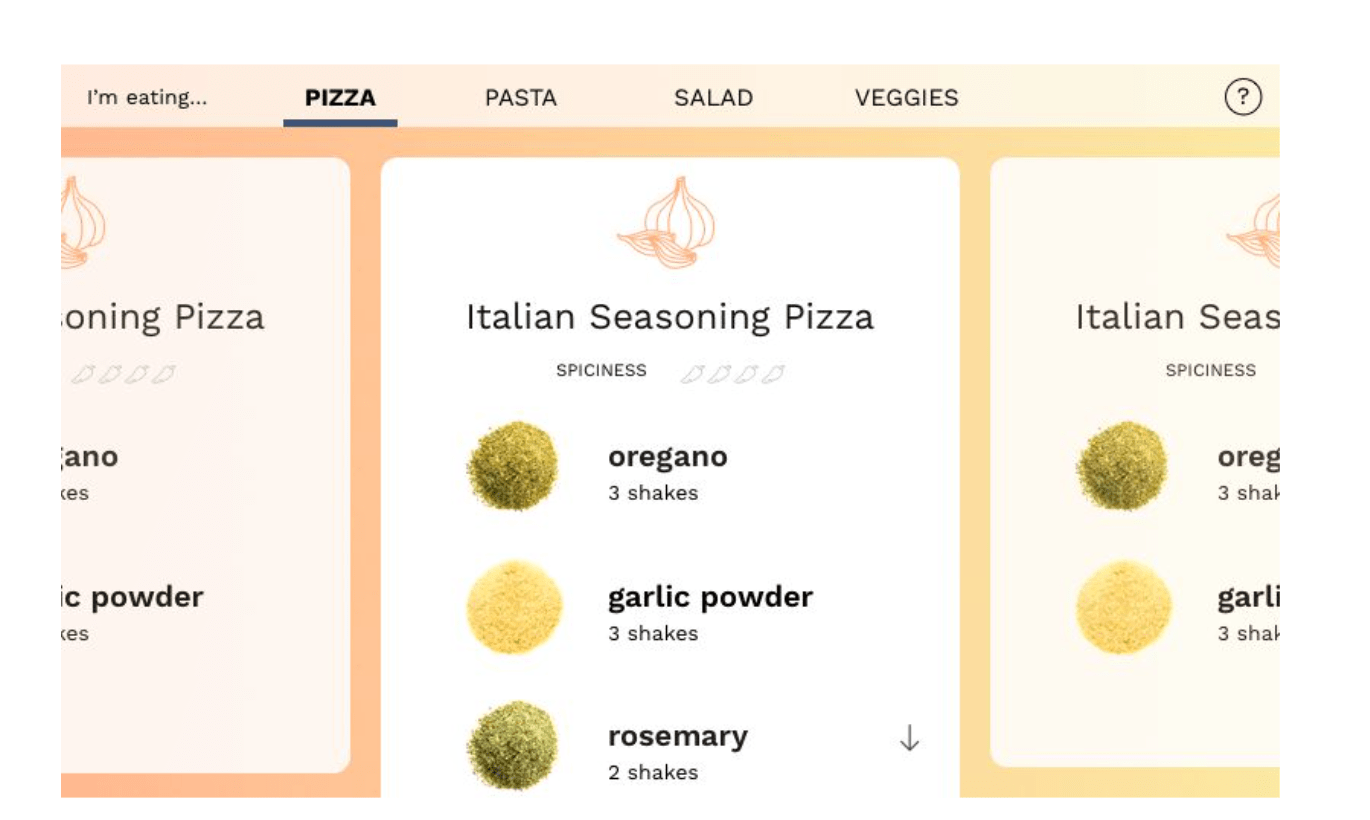
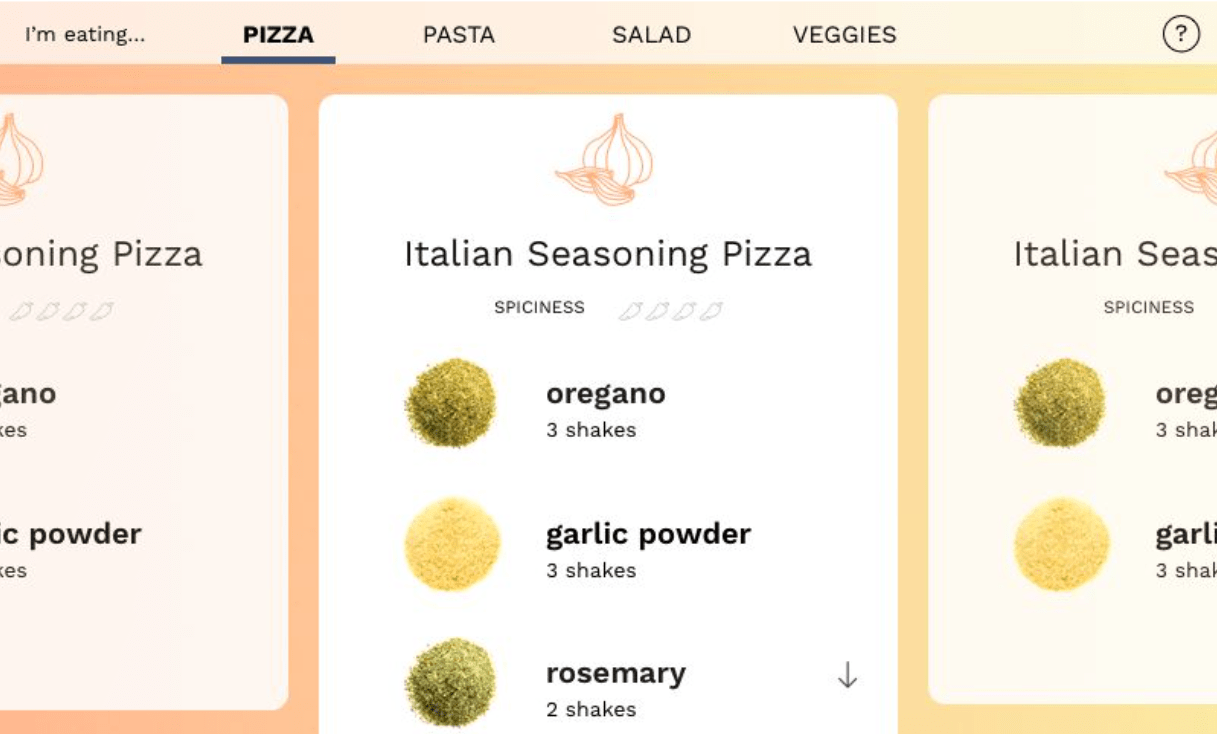
work

diff --git a/index.html b/index.html
@@ -42,14 +42,14 @@
 		<section>
 			<h2>Initial Design and Prototyping</h2>
 			<figure>
-        <div class='multi' style='padding-bottom: 69.3311582382%'><ul><li style='width: 95.0%'><img src='images/sketch.png' /></li></ul></div>
+        <div class='multi' style='padding-bottom: 69.3311582382%'><ul><li style='flex-grow: 1.0'><img src='images/sketch.png' /></li></ul></div>
 			</figure>
 			<p>Low fidelity sketches and prototyping were used to conceptualize possible solutions and to contextualize the problem in a tangible form. We brainstormed and prototyped several approaches — from spice pop-up stores, to vending machines, to “spice cream” machines that let people explore the taste of spices on ice cream. We spent a lot of time thinking about <strong>the best setting in which to expose college students to spices.</strong></p>
 		</section>
 		<section>
 			<h2>User Research, Part 2</h2>
 			<figure>
-        <div class='multi' style='padding-bottom: 99.7703788749%'><ul><li style='width: 95.0%'><img src='images/empathymap.png' /></li></ul></div>
+        <div class='multi' style='padding-bottom: 99.7703788749%'><ul><li style='flex-grow: 1.0'><img src='images/empathymap.png' /></li></ul></div>
 				<figcaption>Figure 1: Empathy maps constructed from individual interviews</figcaption>
 			</figure>
 			<p>
@@ -98,7 +98,7 @@
 				We also knew that the user would have to be able to choose different foods to see recipes for, as the device may recognize multiple on one plate or be unsure of certain foods. Given the small size of the screen (800 x 480 pixels), having a horizontal navigation bar seemed more practical as it takes up less space than a vertical sidebar, and having it placed on top felt more logical as the choice of food would come before the choice of recipe.
 			</p>
 			<figure>
-        <div class='multi' style='padding-bottom: 17.2573265301%'><ul><li style='width: 27.7757383614%'><img src='images/mock1.png' /></li><li style='width: 33.5873519106%'><img src='images/mock2.png' /></li><li style='width: 33.636909728%'><img src='images/mock3.png' /></li></ul></div>
+<div class='multi' style='padding-bottom: 17.2573265301%'><ul><li style='flex-grow: 0.292376193278'><img src='images/mock1.png' /></li><li style='flex-grow: 0.353551072743'><img src='images/mock2.png' /></li><li style='flex-grow: 0.354072733979'><img src='images/mock3.png' /></li></ul></div>
 				<figcaption>
 					Figure 2: Three mockups, including an "input-directed" one (top), a "scrollable" one (left), and a "cards" one (right)
 				</figcaption>
@@ -107,7 +107,7 @@
 				Low resolution mockups were created in Adobe Illustrator after some initial sketching. The wireframes were made lightly interactive in Keynote (each mockup included a few different pages) and were then tested by a few students and one non-student. Participants understood how to use each interface, but preferred those that allowed for freer exploration.
 			</p>
 			<figure>
-        <div class='multi' style='padding-bottom: 25.3056234719%'><ul><li style='width: 47.5%'><img src='images/smallercards1.png' /></li><li style='width: 47.5%'><img src='images/smallercards2.png' /></li></ul></div>
+        <div class='multi' style='padding-bottom: 25.3056234719%'><ul><li style='flex-grow: 0.5'><img src='images/smallercards1.png' /></li><li style='flex-grow: 0.5'><img src='images/smallercards2.png' /></li></ul></div>
 				<figcaption>
 					Figure 3: Experimenting with smaller cards
 				</figcaption>
@@ -116,7 +116,7 @@
 				We also felt that the "cards" approach encouraged focus on one recipe at a time. The previous iteration didn't feel quite as free as the "scrollable" interface, so we experimented with smaller cards, which made the recipes feel more easily explorable--with smaller cards, the surroundings recipes could be "previewed" before being focus on. What's more, the cards are very easy and quick to swipe between, providing an experience where all the possible recipes are laid out and ready to be accessed without any friction in looking between them.
 			</p>
 			<figure>
-        <div class='multi' style='padding-bottom: 30.1535974131%'><ul><li style='width: 47.3080032336%'><img src='images/highres1.png' /></li><li style='width: 47.6919967664%'><img src='images/highres2.png' /></li></ul></div>
+        <div class='multi' style='padding-bottom: 30.1535974131%'><ul><li style='flex-grow: 0.497978981407'><img src='images/highres1.png' /></li><li style='flex-grow: 0.502021018593'><img src='images/highres2.png' /></li></ul></div>
 				<figcaption>
 					Figure 4: Exploring design elements in the high resolutions mockups
 				</figcaption>
@@ -131,18 +131,18 @@
 				In the final mockup, we gave the spices a good amount of space and color to bring focus to them. Because they are given this focus and are associated with a visual (and, eventually, a taste), we hypothesized that students who would use this regularly would start to recognize spices that they hadn't known before. In our interviews we found that the participants, when learning to cook and when buying new spices, would tend to lean towards spices that they recognized, especially when they could associate the them with specific dishes. With zest, the user "makes" those dishes themselves, and hopefully will want to use the same spices when they start to cook on their own.
 			</p>
 			<figure>
-				<img src='images/finalmock.png'/>
+        <div class='multi' style='padding-bottom: 60.312243221%'><ul><li style='flex-grow: 1.0'><img src='images/finalmock.png' /></li></ul></div>
 				<figcaption>Figure 5: The main page of the final mockup</figcaption>
 			</figure>
 			<figure>
-				<img src='images/finalfrontend.png'/>
+<div class='multi' style='padding-bottom: 59.6724667349%'><ul><li style='flex-grow: 1.0'><img src='images/finalfrontend.png' /></li></ul></div>
 				<figcaption>Figure 6: The final frontend product shown on the website, here displaying recipes for chicken</figcaption>
 			</figure>
 			<p>
 				The final frontend product was coded in HTML, CSS, and jQuery, and exists as a web page on our Google App Engine website (though it is a web page, it is only meant to be accessed from the built device). A carousel slider was used to control the cards, which can be swiped between on the touchscreen of the Pi. When a card is swiped to, it takes center stage on the screen, giving it focus. The surrounding recipes are at a lower opacity to add to that focus. The icon above each recipe is based on which spice is the biggest player in it (i.e. which spice has the most shakes)--each spice is associated with a certain icon, though some share the same one (for instance, chipotle, chili, and cayenne each shared the spicy pepper icon).
 			</p>
 			<figure>
-				<img src='images/idlestate.png'/>
+<div class='multi' style='padding-bottom: 59.2948717949%'><ul><li style='flex-grow: 1.0'><img src='images/idlestate.png' /></li></ul></div>
 				<figcaption>Figure 7: The idle state of the device when no food has been placed underneath. It returns to this state before a plate has been placed and after it has been removed</figcaption>
 			</figure>
 			<p>
@@ -167,8 +167,8 @@
 				After this general configuration was established, we looked at incorporating key hardware including a; raspberry pi 3, raspberry pi camera, 7” LCD touchscreen and LED’s. This also included cabling, wiring and fasteners and power supply. Digital models were then generated to establish the visual language needed to achieve the <strong>integrated</strong> and <strong>seamless</strong> experience as well as accounting for the rough volumes of the listed hardware.
 			</p>
 			<figure>
-        <div class='multi' style='padding-bottom: 23.1116715723%'><ul><li style='width: 30.1486581406%'><img src='images/proto1.png' /></li><li style='width: 31.9894338425%'><img src='images/proto2.png' /></li><li style='width: 32.8619080169%'><img src='images/proto3.png' /></li></ul></div>
-        <div class='multi' style='padding-bottom: 42.4330232205%'><ul><li style='width: 64.3660268621%'><img src='images/proto4.png' /></li><li style='width: 30.6339731379%'><img src='images/proto5.png' /></li></ul></div>
+        <div class='multi' style='padding-bottom: 23.1116715723%'><ul><li style='flex-grow: 0.317354296217'><img src='images/proto1.png' /></li><li style='flex-grow: 0.336730882552'><img src='images/proto2.png' /></li><li style='flex-grow: 0.345914821231'><img src='images/proto3.png' /></li></ul></div>
+        <div class='multi second' style='padding-bottom: 42.4330232205%'><ul><li style='flex-grow: 0.677537124864'><img src='images/proto4.png' /></li><li style='flex-grow: 0.322462875136'><img src='images/proto5.png' /></li></ul></div>
 			</figure>
 			<p>
 				In tandem with CAD modelling, low fidelity prototypes were created to gather ergonomic data, including heights and angles of various elements such as the screen and base. In addition, the precise camera angle for optimal image recognition was also determined through this adjustable low-fidelity mock-up.
@@ -176,8 +176,10 @@
 			<p>
 				With all the aforementioned factors accounted for, a Solidworks model was created which included accurate models of the LCD screen, Pi board and Pi Camera to ensure proper fit. A quick model of the final form was made through 3D printing and laser cutting. The jars were also set to the side to determine the scale of the rack. At this point we began to design the rack assembly. This was fairly straightforward as it translated the design language of the main console into something that had to hold 3 LED’s in a ring around each of the 15 available slots.
 			<figure>
-        <div class='multi' style='padding-bottom: 25.3144453443%'><ul><li style='width: 23.7850309381%'><img src='images/render1.png' /></li><li style='width: 25.0871906645%'><img src='images/render2.png' /></li><li style='width: 21.5436477565%'><img src='images/render3.png' /></li><li style='width: 24.5841306409%'><img src='images/render4.png' /></li></ul></div>
-        <div class='multi' style='padding-bottom: 37.4881195934%'><ul><li style='width: 47.6239589542%'><img src='images/cardboard1.png' /></li><li style='width: 47.3760410458%'><img src='images/cardboard2.png' /></li></ul></div>
+<div class='multi' style='padding-bottom: 32.7387929601%'><ul><li style='flex-grow: 0.341525135652'><img src='images/render2.png' /></li><li style='flex-grow: 0.323798149672'><img src='images/render1.png' /></li><li style='flex-grow: 0.334676714676'><img src='images/render4.png' /></li></ul></div>
+        
+        <div class='multi' style='padding-bottom: 37.4881195934%'><ul><li style='flex-grow: 0.501304831097'><img src='images/cardboard1.png' /></li><li style='flex-grow: 0.498695168903'><img src='images/cardboard2.png' /></li></ul></div>
+        
         <figcaption>
         Figure 8: Prototype CAD models and cardboard prototypes
         </figcaption>
@@ -193,7 +195,7 @@
 			</p>
 			<figure>
 				<div>
-          <div class='multi' style='padding-bottom: 37.4705003697%'><ul><li style='width: 47.4874055312%'><img src='images/cnc1.png' /></li><li style='width: 47.5125944688%'><img src='images/cnc2.png' /></li></ul></div>
+<div class='multi' style='padding-bottom: 37.4705003697%'><ul><li style='flex-grow: 0.499867426644'><img src='images/cnc1.png' /></li><li style='flex-grow: 0.500132573356'><img src='images/cnc2.png' /></li></ul></div>
 				</div>
 				<figcaption>
 					Figure 9: The base after CNC alongside 3D printed parts
@@ -201,7 +203,7 @@
 			</figure>
 			<p>The spice stand also used the CNC for the body and 3D printing for the more complex LED housing and diffuser. The acrylic diffuser rings were laser cut for precision and consistency.</p>
 			<figure>
-        <div class='multi' style='padding-bottom: 37.1259425022%'><ul><li style='width: 47.5503711559%'><img src='images/build1.png' /></li><li style='width: 47.4496288441%'><img src='images/build2.png' /></li></ul></div>
+<div class='multi' style='padding-bottom: 37.1259425022%'><ul><li style='flex-grow: 0.500530222694'><img src='images/build1.png' /></li><li style='flex-grow: 0.499469777306'><img src='images/build2.png' /></li></ul></div>
 				<figcaption>
 					Figure 10: The painted base and stand alongside the unfinished spice rack (top) and the painted spice rack with light-up acrylic rings (bottom)
 				</figcaption>
@@ -210,13 +212,13 @@
 				Both console and holder underwent several cycles of priming/filling and sanding until we obtained the desired surface finish. At which point, we used 2-3 coats of enamel paint to create the smooth surface finish.
 			</p>
 			<figure class='multi'>
-<div class='multi' style='padding-bottom: 74.2424242424%'><ul><li style='width: 95.0%'><img src='images/wires1.png' /></li></ul></div>
+<div class='multi' style='padding-bottom: 74.2424242424%'><ul><li style='flex-grow: 1.0'><img src='images/wires1.png' /></li></ul></div>
 				<figcaption>
 					Figure 11: Wires to attach the screen to the Pi, which was housed in the "neck" of the stand
 				</figcaption>
 			</figure>
 			<figure>
-<div class='multi' style='padding-bottom: 66.8049792531%'><ul><li style='width: 95.0%'><img src='images/finalform.png' /></li></ul></div>        
+<div class='multi' style='padding-bottom: 66.8049792531%'><ul><li style='flex-grow: 1.0'><img src='images/finalform.png' /></li></ul></div>
 				<figcaption>
 					Figure 12: The final form with broccoli being identified and spices lighting up according to the currently-shown recipe
 				</figcaption>
@@ -234,7 +236,7 @@
 				Our branding was based on a friendly and warm color palette with easily identifiable icons and text. We chose colors that would be complementary to the natural shades of spices, with simple white icons that reflected the functionality of the object or process represented. The font, <em>Apercu</em>, was used for simplicity and readability throughout our user interface and signage. Icons were also created to easily convey the functionality of our device so that users would know what to do upon encountering its user interface. Our name, <em>zest</em>, was chosen to signify the simple and flavorful experience created by our project.
 			</p>
 			<figure>
-<div class='multi' style='padding-bottom: 129.421768707%'><ul><li style='width: 95.0%'><img src='images/branding.png' /></li></ul></div>
+<div class='multi' style='padding-bottom: 129.421768707%'><ul><li style='flex-grow: 1.0'><img src='images/branding.png' /></li></ul></div>
 			</figure>
 		</section>
 		<section>

diff --git a/index.css b/index.css
@@ -49,8 +49,8 @@ h1, h2, h3, h4, h5 {
 }
 
 figure {
-  margin-right: 0;
-  margin-left: 0;
+  margin-right: -2em;
+  margin-left: -2em;
 }
 
 figure > img {
@@ -68,7 +68,6 @@ figure .multi > ul {
   margin: 0;
   display: flex;
   flex-direction: row;
-  justify-content: space-between;
   position: absolute;
   top: 0;
   left: 0;
@@ -77,9 +76,35 @@ figure .multi > ul {
 }
 
 figure .multi > ul > li {
-  
+  position: relative;
+  height: 100%;
+  flex-basis: 0;
+}
+
+figure .multi > ul > li:not(:last-child) {
+  margin-right: 4px;
 }
 
 figure .multi > ul > li > img {
   width: 100%;
+}
+
+figure .multi > ul > li > img:last-child {
+  right: 0;
+}
+
+figure > * {
+  margin: 4px;
+}
+
+figure .multi.second > * {
+  margin-top: -2px;
+}
+
+figcaption {
+  text-align: center;
+  opacity: 0.5;
+  margin: auto;
+  margin-top: 1em;
+  width: 70%;
 }

diff --git a/util/imagesizer.py b/util/imagesizer.py
@@ -12,6 +12,7 @@ while True:
     x = raw_input(' [image names separated by spaces] ')
     if x == '': break
     names = x.split()
+    names = [(name + '.png' if '.' not in name else name) for name in names]
     paths = [os.path.join('images', name) for name in names]
     sizes = [get_size(path) for path in paths]
     container_aspect = sum(w/h for (w,h) in sizes)
@@ -20,7 +21,7 @@ while True:
     output += "<div class='multi' style='padding-bottom: {}'><ul>".format(percent(1.0/container_aspect))
     for path, (w,h) in zip(paths, sizes):
         aspect = w/h
-        output += "<li style='width: {}'><img src='{}' /></li>".format(percent(aspect/container_aspect*0.95), path)
+        output += "<li style='flex-grow: {}'><img src='{}' /></li>".format(aspect/container_aspect, path)
     output += "</ul></div>"
     print '\n' + output + '\n'
     
